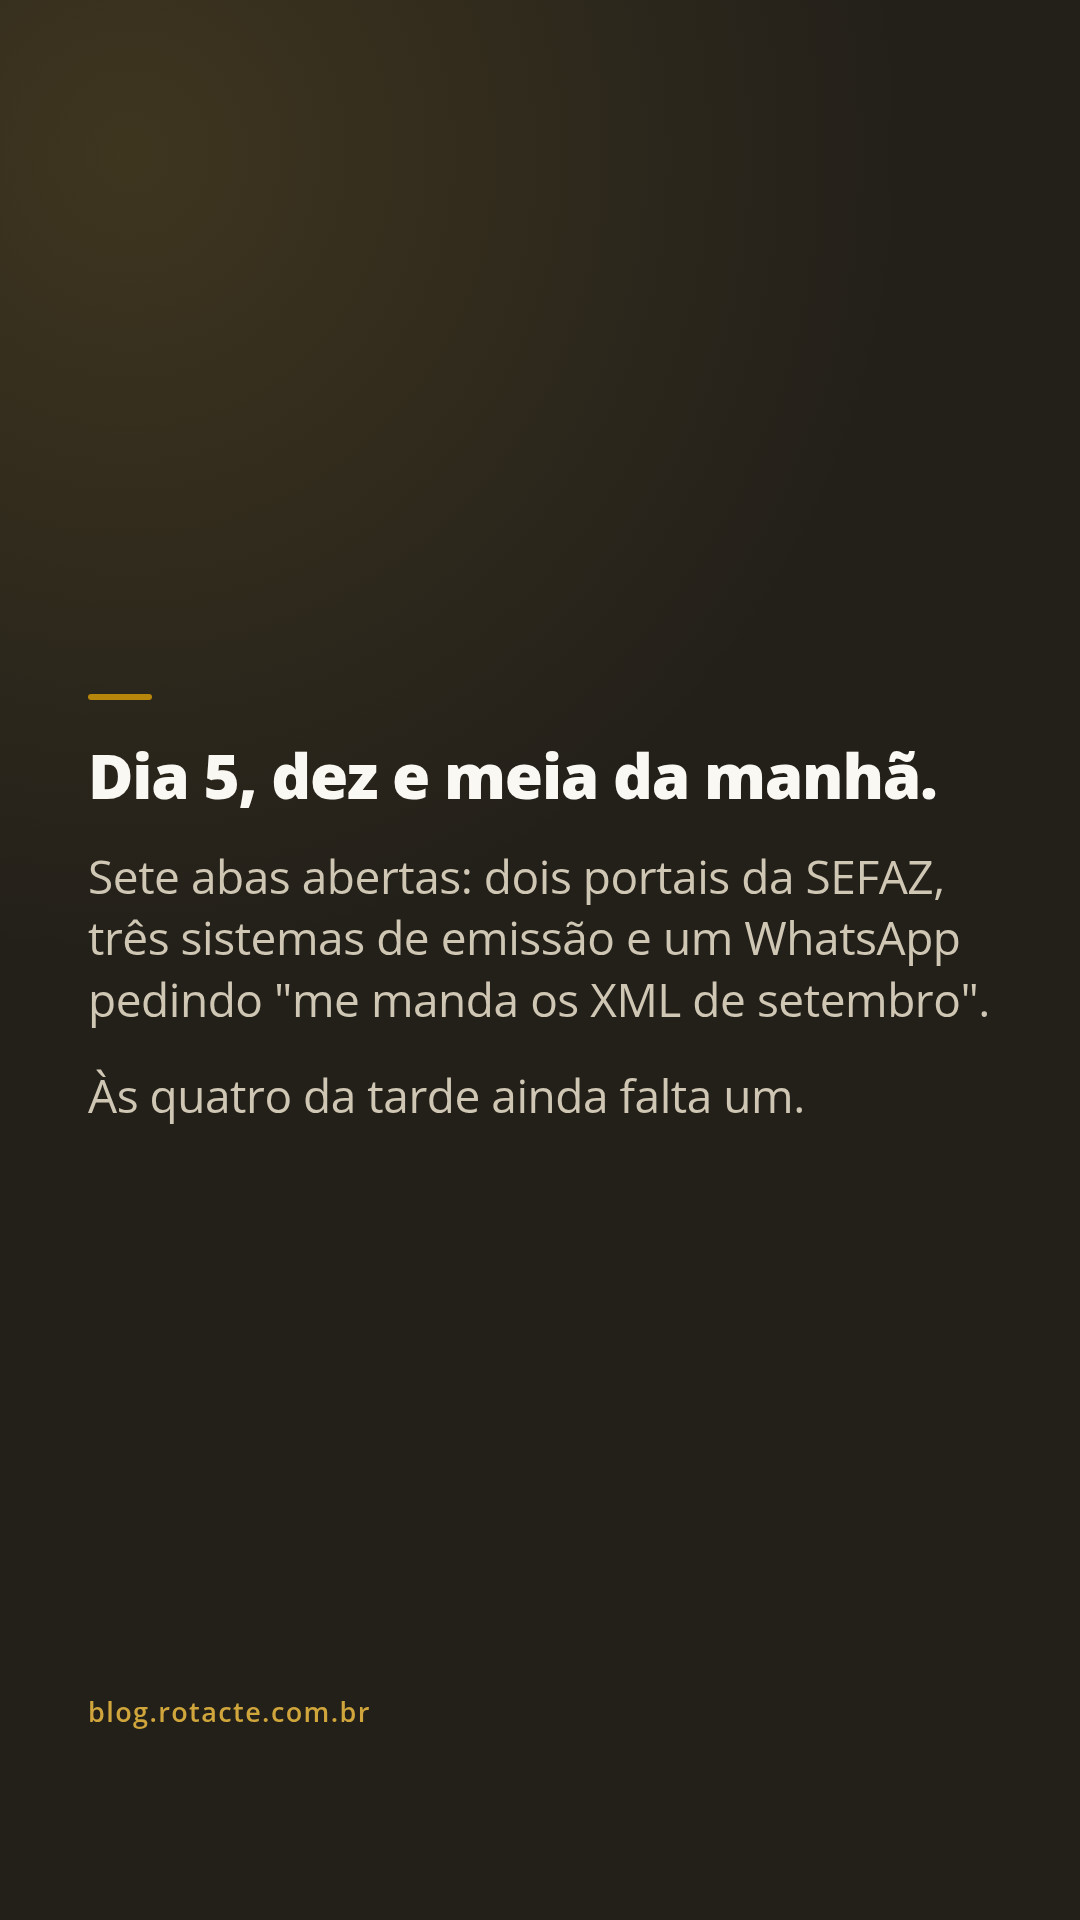
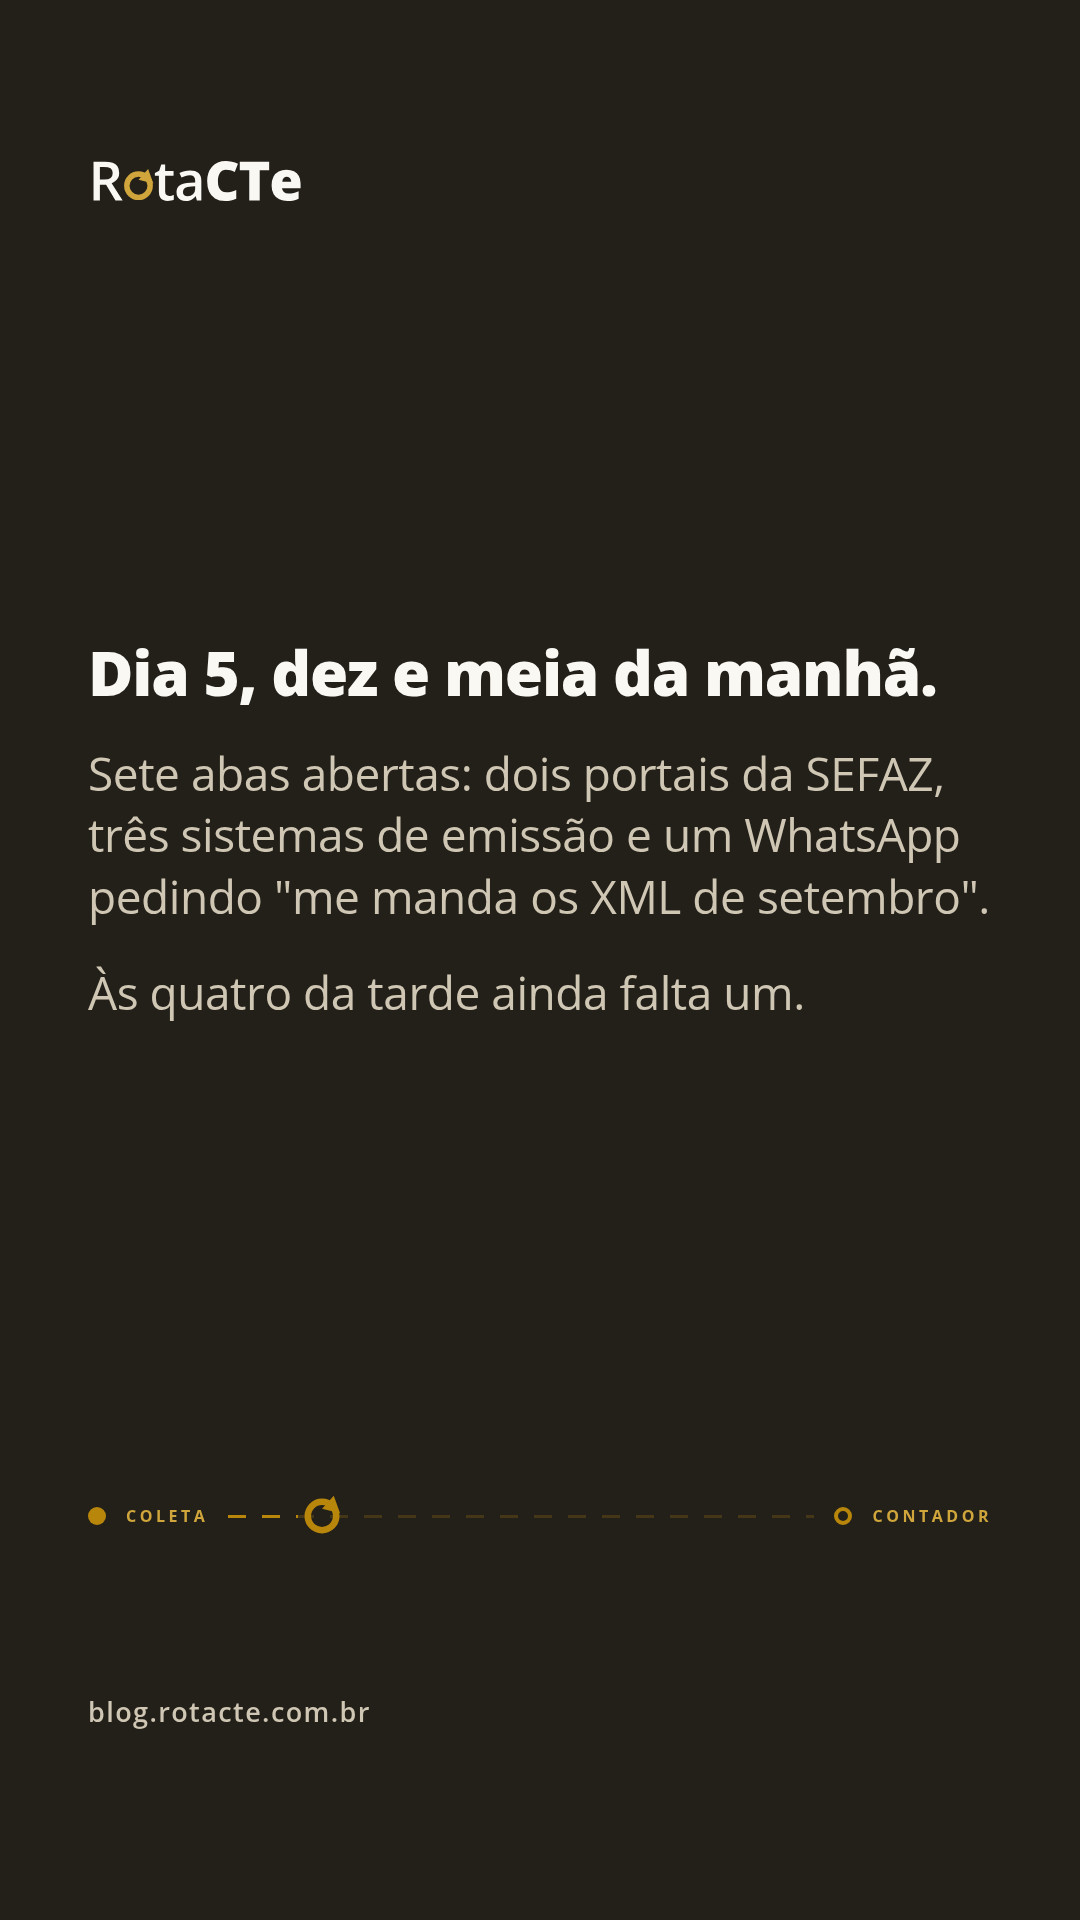
fix(stories): o story do post passa a ser do RotaCTe, nao do Reservya recolorido
Logotipo no alto, sem regua coral e sem brilho radial, e a linha de rota avancando de
quadro em quadro — o mesmo recurso do Reels da campanha, na velocidade do dedo de quem
toca a tela. No ultimo quadro, que e o do link, o trajeto esta fechado.

diff --git a/scripts/gerar-stories.py b/scripts/gerar-stories.py
@@ -20,9 +20,18 @@ tela, e também ficam de fora.
 Saída: `arquivos/imagens/stories-<slug>-<n>.jpg`, 1080x1920, JPEG — o Instagram não aceita
 webp no story.
 
-Mesmo script nos dois blogs, como o gerar-capa.py — o que muda é o `--marca`: o Reservya
-sai em verde com Montserrat, o RotaCTe em espresso com Open Sans e o fio dourado da
-identidade ROTA. Precisa de google-chrome e Pillow. As fontes são os woff2 locais: sem rede.
+Mesmo script nos dois blogs, como o gerar-capa.py — mas `--marca` NÃO é só paleta: cada
+marca traz o próprio LAYOUT, porque as duas identidades discordam no desenho, não na cor.
+
+- **reservya**: régua coral no alto, texto centrado no quadro, brilho radial suave no fundo.
+- **rotacte**: identidade ROTA — logotipo no alto, tipografia mandando, e a **linha de rota
+  avançando de quadro em quadro** (Coleta → anel → Contador), que é a assinatura da marca.
+  Sem degradê em lugar nenhum: a regra 3 da identidade proíbe.
+
+⚠ A primeira versão disto era o layout do Reservya recolorido, e ficou com cara de peça
+emprestada — que é exatamente o que a identidade do RotaCTe existe para evitar.
+
+Precisa de google-chrome e Pillow. As fontes são os woff2 locais: sem rede.
 """
 import argparse
 import pathlib
@@ -32,6 +41,8 @@ import sys
 import tempfile
 
 L, A = 1080, 1920
+
+MARCA_ROTACTE = "/home/dftaiho/Projetos/rotacte-criativos/marca"
 
 MARCAS = {
     "reservya": {
@@ -45,12 +56,11 @@ MARCAS = {
     },
     "rotacte": {
         "fonte": "Open Sans",
-        "arquivo": "file:///home/dftaiho/Projetos/rotacte-criativos/marca/opensans-latin.woff2",
-        # Open Sans não tem 800 tão apertada quanto a Montserrat; o aperto da identidade
-        # ROTA é -.02em, e é o que mantém o quadro parecido com o Reels.
+        "arquivo": f"file://{MARCA_ROTACTE}/opensans-latin.woff2",
+        # Open Sans não aperta como a Montserrat; -.02em é o aperto da identidade ROTA.
         "peso_destaque": 800, "peso_corpo": 400, "aperto": "-.02em",
-        "fundo": "#23201a", "regua": "#b8860b", "claro": "#faf8f3",
-        "apoio": "#cfc6b4", "pe": "#d0a63c", "brilho": "208,166,60",
+        "fundo": "#23201a", "ouro": "#b8860b", "ouro_claro": "#d0a63c",
+        "claro": "#faf8f3", "apoio": "#cfc6b4", "pe": "#cfc6b4",
         "site": "blog.rotacte.com.br",
     },
 }
@@ -59,18 +69,13 @@ MARCAS = {
 # avatar de quem postou. O texto vive no meio, que é o que sobra.
 MARGEM, TOPO_SEGURO, BASE_SEGURA = 88, 200, 300
 
-MODELO = """<!doctype html>
+PAGINA = """<!doctype html>
 <html><head><meta charset="utf-8" /><style>
   @font-face{{font-family:'{fonte}';src:url('{arquivo}') format('woff2');
              font-weight:100 900;font-display:block;}}
+  *{{box-sizing:border-box}}
   html,body{{margin:0;padding:0;width:{L}px;height:{A}px;overflow:hidden;background:{fundo};}}
   .quadro{{position:relative;width:{L}px;height:{A}px;font-family:'{fonte}',sans-serif;}}
-  /* um brilho leve no alto à esquerda tira o chapado do fundo sem virar decoração */
-  .luz{{position:absolute;inset:0;background:
-        radial-gradient(120% 70% at 12% 8%, rgba({brilho},.16), rgba(0,0,0,0) 60%);}}
-  .bloco{{position:absolute;left:{margem}px;right:{margem}px;top:{topo}px;bottom:{base}px;
-          display:flex;flex-direction:column;justify-content:center;}}
-  .regua{{width:64px;height:6px;border-radius:3px;background:{regua};margin:0 0 40px;}}
   p{{margin:0;color:{apoio};font-size:46px;font-weight:{peso_corpo};line-height:1.34;
      letter-spacing:-.01em;}}
   p+p{{margin-top:34px;}}
@@ -78,13 +83,80 @@ MODELO = """<!doctype html>
               letter-spacing:{aperto};}}
   .pe{{position:absolute;left:{margem}px;bottom:190px;color:{pe};font-size:27px;
        font-weight:600;letter-spacing:1.4px;}}
+  {estilo}
 </style></head>
-<body><div class="quadro">
-  <div class="luz"></div>
-  <div class="bloco"><div class="regua"></div>{paragrafos}</div>
-  <div class="pe">{site}</div>
-</div></body></html>
+<body><div class="quadro">{corpo}<div class="pe">{site}</div></div></body></html>
 """
+
+# --- reservya: régua coral, texto centrado, brilho radial suave -----------------------
+ESTILO_RESERVYA = """
+  /* um brilho leve no alto à esquerda tira o chapado do verde sem virar decoração */
+  .luz{position:absolute;inset:0;background:
+       radial-gradient(120% 70% at 12% 8%, rgba(143,199,200,.16), rgba(15,44,43,0) 60%);}
+  .bloco{position:absolute;left:88px;right:88px;top:200px;bottom:300px;
+         display:flex;flex-direction:column;justify-content:center;}
+  .regua{width:64px;height:6px;border-radius:3px;background:#E8926B;margin:0 0 40px;}
+"""
+
+
+def corpo_reservya(paragrafos, _passo, _total):
+    return ('<div class="luz"></div>'
+            f'<div class="bloco"><div class="regua"></div>{paragrafos}</div>')
+
+
+# --- rotacte: identidade ROTA — logotipo, tipografia mandando, linha de rota que anda --
+ESTILO_ROTACTE = """
+  .lock{position:absolute;left:88px;top:150px;}
+  .lock img{display:block;width:214px;height:62px;}
+  .bloco{position:absolute;left:88px;right:88px;top:300px;bottom:560px;
+         display:flex;flex-direction:column;justify-content:center;}
+  /* a linha de rota vive logo acima da área que o Instagram cobre */
+  .rota{position:absolute;left:88px;right:88px;bottom:380px;
+        display:flex;align-items:center;gap:20px;}
+  .rota .no{width:18px;height:18px;border-radius:50%;flex:none;}
+  .rota .cheio{background:#b8860b;}
+  .rota .vazio{border:4px solid #b8860b;}
+  .rota .rotulo{font-size:16px;font-weight:700;letter-spacing:.22em;
+                text-transform:uppercase;color:#d0a63c;flex:none;}
+  .rota .trilho{flex:1;position:relative;height:48px;display:flex;align-items:center;}
+  .rota .apagado{position:absolute;inset:0;display:flex;align-items:center;}
+  .rota .apagado i{width:100%;height:3px;display:block;background:
+      repeating-linear-gradient(90deg,rgba(184,134,11,.22) 0 18px,transparent 18px 34px);}
+  .rota .andado{position:absolute;left:0;display:flex;align-items:center;}
+  .rota .andado i{flex:1;height:3px;display:block;background:
+      repeating-linear-gradient(90deg,#b8860b 0 18px,transparent 18px 34px);}
+  .rota .anel{width:48px;height:48px;flex:none;}
+"""
+
+
+def corpo_rotacte(paragrafos, passo, total):
+    """O trajeto anda com o story: quadro 1 de 5 = 20%, quadro 5 de 5 = fechado.
+
+    É o mesmo recurso do Reels da campanha, na velocidade do dedo de quem toca a tela em
+    vez da do vídeo. Quem chega ao último quadro vê a rota completa — e o último quadro é
+    justamente o da pergunta e do link.
+    """
+    p = max(0.06, min(1.0, passo / total))
+    fim = "cheio" if p >= 0.999 else "vazio"
+    return f'''
+  <div class="lock"><img src="file://{MARCA_ROTACTE}/rotacte-logo-branco.svg"></div>
+  <div class="bloco">{paragrafos}</div>
+  <div class="rota">
+    <div class="no cheio"></div><div class="rotulo">Coleta</div>
+    <div class="trilho">
+      <div class="apagado"><i></i></div>
+      <div class="andado" style="width:{p * 100:.1f}%;">
+        <i></i><img class="anel" src="file://{MARCA_ROTACTE}/rotacte-anel-ouro.svg">
+      </div>
+    </div>
+    <div class="no {fim}"></div><div class="rotulo">Contador</div>
+  </div>'''
+
+
+LAYOUTS = {
+    "reservya": (ESTILO_RESERVYA, corpo_reservya),
+    "rotacte": (ESTILO_ROTACTE, corpo_rotacte),
+}
 
 
 def quadros(md):
@@ -115,14 +187,19 @@ def quadros(md):
     return achados
 
 
-def html(paragrafos, marca):
-    corpo = "".join(
+def html(paragrafos, nome_marca, passo, total):
+    marca = MARCAS[nome_marca]
+    estilo, montar = LAYOUTS[nome_marca]
+    texto = "".join(
         f'<p class="destaque">{t}</p>' if i == 0 else f"<p>{t}</p>"
         for i, t in enumerate(paragrafos)
     )
-    return MODELO.format(
-        L=L, A=A, margem=MARGEM, topo=TOPO_SEGURO, base=BASE_SEGURA, paragrafos=corpo,
-        **marca,
+    return PAGINA.format(
+        L=L, A=A, margem=MARGEM, estilo=estilo, corpo=montar(texto, passo, total),
+        fonte=marca["fonte"], arquivo=marca["arquivo"], fundo=marca["fundo"],
+        claro=marca["claro"], apoio=marca["apoio"], pe=marca["pe"],
+        peso_destaque=marca["peso_destaque"], peso_corpo=marca["peso_corpo"],
+        aperto=marca["aperto"], site=marca["site"],
     )
 
 
@@ -146,9 +223,9 @@ def main():
 
     from PIL import Image
     with tempfile.TemporaryDirectory() as tmp:
-        for n, falas in achados:
+        for passo, (n, falas) in enumerate(achados, start=1):
             arq = pathlib.Path(tmp) / f"q{n}.html"
-            arq.write_text(html(falas, MARCAS[a.marca]), encoding="utf-8")
+            arq.write_text(html(falas, a.marca, passo, len(achados)), encoding="utf-8")
             png = pathlib.Path(tmp) / f"q{n}.png"
             subprocess.run(
                 ["google-chrome", "--headless", "--disable-gpu", "--no-sandbox",
